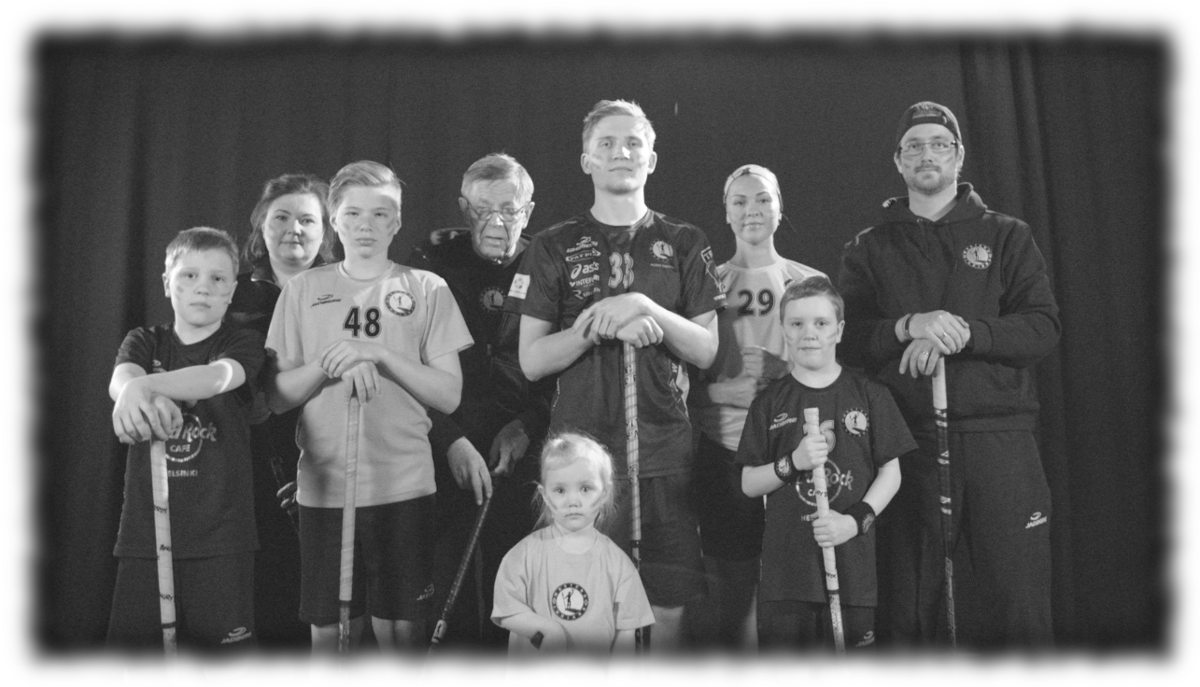
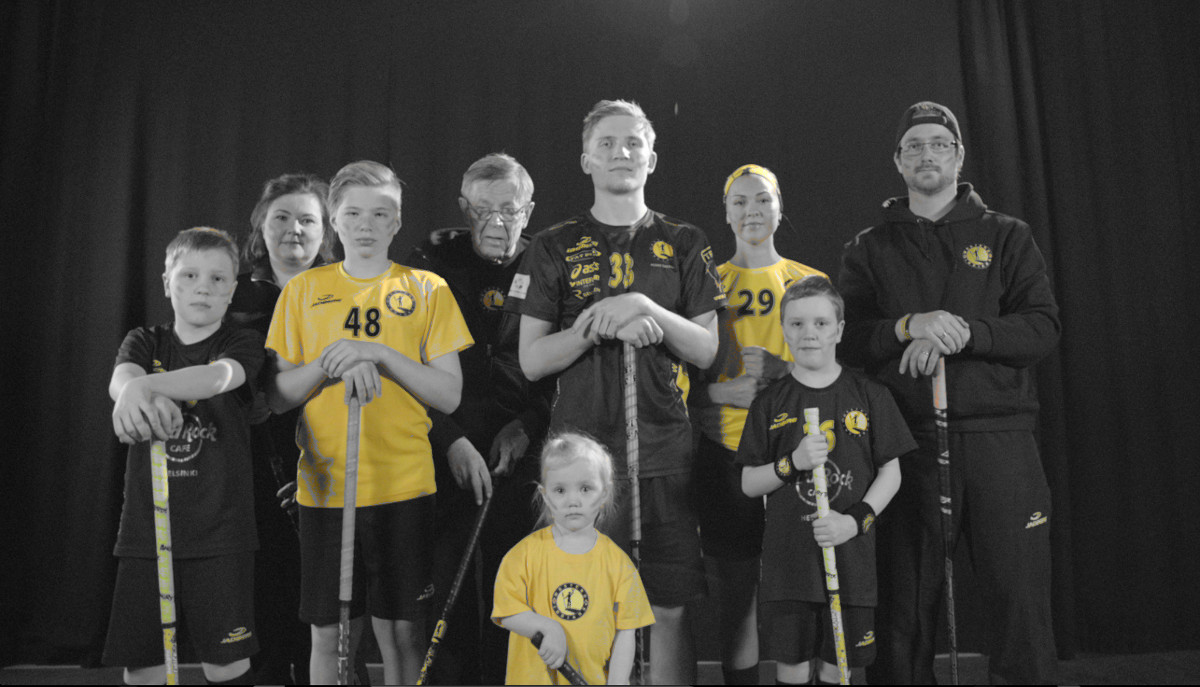
new tribe, new captain images

diff --git a/content/templates/content/home_page.html b/content/templates/content/home_page.html
@@ -24,7 +24,7 @@
 
     <a onclick="showVideoModal('https://www.youtube.com/embed/aWGRSjV4ZSE');"
         class="video-link tribe-img">
-      <img class="photo" src="{% static "images/tribe_clean_1200x.jpg" %}">
+      <img class="photo" src="{% static "images/tribe_1200x.jpg" %}">
       <img class="play-button" src="{% static "images/play.png" %}">
     </a>
 
